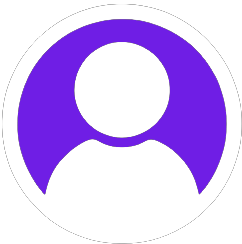
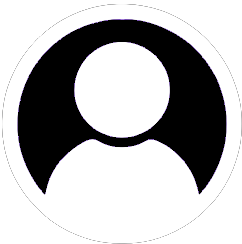
added new background and a new user image and added send a code to user when logging in

Changed region(s): [[0.0579, 0.0574, 0.9545, 0.8033]]

diff --git a/templates/base.html b/templates/base.html
@@ -9,7 +9,7 @@
         <link href="https://cdn.jsdelivr.net/npm/bootstrap@5.3.0-alpha1/dist/css/bootstrap.min.css" rel="stylesheet" integrity="sha384-GLhlTQ8iRABdZLl6O3oVMWSktQOp6b7In1Zl3/Jr59b6EGGoI1aFkw7cmDA6j6gD" crossorigin="anonymous">
         <link rel="stylesheet" href="../static/style.css">
     </head>
-    
+        
     <body style="background-color: black;">
         
         <nav class="navbar navbar-expand-lg navbar-light transparent">

diff --git a/static/style.css b/static/style.css
@@ -1,5 +1,5 @@
 .background-image {
-    background-image: url(images/background.jpeg);
+    background-image: url(images/background.png);
 }
 
 #particles-js {
@@ -8,7 +8,7 @@
   }
 
   .login-card{
-    background: rgba(0, 0, 0, 0.1);
+    background: rgba(255, 255, 255, 0.01);
     backdrop-filter: blur(10px);
     border-top: 1px solid rgba(255, 255, 255, 0.5);
     border-left: 1px solid rgba(255, 255, 255, 0.5);

diff --git a/main.py b/main.py
@@ -1,6 +1,16 @@
 from flask import Flask, render_template, request, make_response, redirect, url_for, session
 from flask_sqlalchemy import SQLAlchemy
 import hashlib
+import os
+from email.message import EmailMessage
+import ssl
+import smtplib
+import random
+
+#2fa configuration
+
+email_sender = 'dataexotica@gmail.com'
+email_password = 'atyocjltnmhlprgx'
 
 app = Flask(__name__)
 app.config['SQLALCHEMY_DATABASE_URI'] = 'sqlite:///database.db'
@@ -22,6 +32,7 @@ class Combo(db.Model):
     combo_password = db.Column(db.String(), nullable = False, unique = True)
     combo_website = db.Column(db.String(), nullable = False, unique = True)
 
+# Routes
 @app.route('/')
 @app.route('/home')
 def home():
@@ -61,6 +72,24 @@ def login():
         return redirect(url_for('profile'))
     if request.method == 'POST':
         email = request.form['email']
+        email_receiver = email
+        code = random.randint(100000, 999999)
+        session['code'] = code  # store code in session
+
+        subject = 'Verification Code'
+        body = f'Your verification code is \n{code}'
+
+        em = EmailMessage()
+        em['From'] = email_sender
+        em['To'] = email_receiver
+        em['Subject'] = subject
+        em.set_content(body)
+
+        context = ssl.create_default_context()
+
+        with smtplib.SMTP_SSL('smtp.gmail.com', 465, context=context) as server:
+            server.login(email_sender, email_password)
+            server.sendmail(email_sender, email_receiver, em.as_string())
         password = request.form['password']
         remember = request.form.get('remember', False)
         session['remember'] = remember
